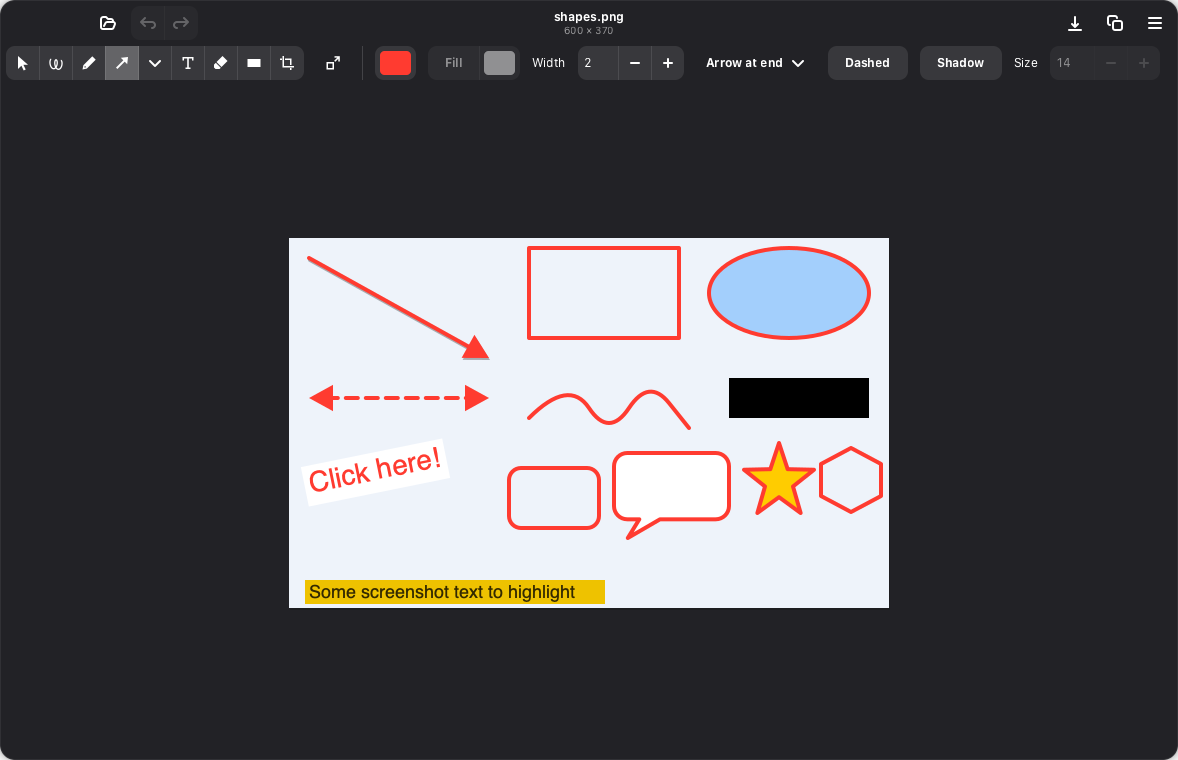
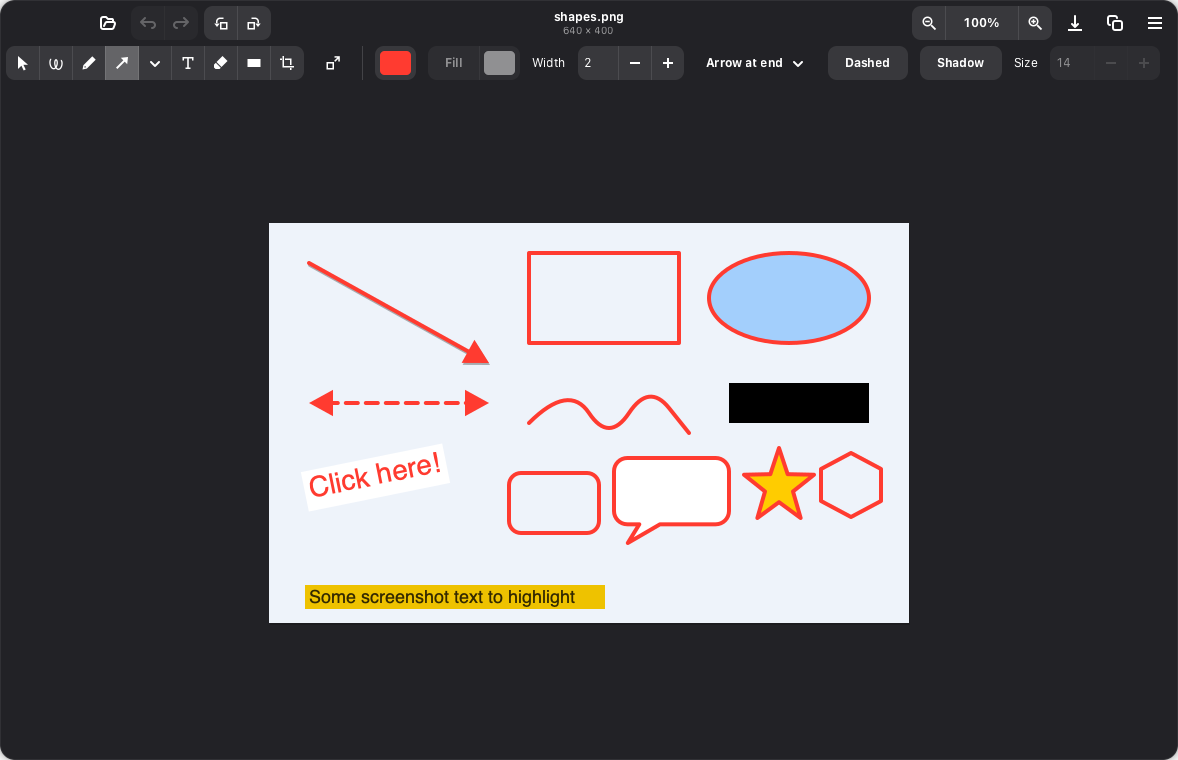
README: add rotate and zoom, refresh screenshot

diff --git a/README.md b/README.md
@@ -23,6 +23,13 @@ Built with Rust, GTK 4 and libadwaita.
 - **Editing:** move, resize and duplicate annotations, bring to front or
   send to back, and undo/redo.
 - **Crop:** stays adjustable until you save.
+- **Rotate:** turn the image left or right without losing quality. Your
+  annotations turn with it, just like in Preview: arrows keep pointing at
+  the same thing, and a speech bubble's tail or a star's points rotate along
+  with the picture.
+- **Zoom:** zoom buttons and the current level in the header bar. Click the
+  level to switch between actual size and fit to window. Ctrl+scroll and
+  touchpad pinch zoom around the pointer.
 - **Adjust Size:** Fit into presets, pixels, per cent, inches, cm, mm or
   points, plus resolution, scale proportionally and resample. The resolution
   is kept in PNG and JPEG metadata.
@@ -105,10 +112,13 @@ flatpak-builder --user --install --force-clean build-flatpak io.github.mozartdin
 | Delete, arrow keys | Delete or nudge the selection (Shift: 10 px) |
 | Ctrl+Z, Ctrl+Shift+Z | Undo, redo |
 | Ctrl+K | Crop to the selection |
+| Ctrl+L, Ctrl+R | Rotate left, rotate right |
 | Ctrl+D, Ctrl+Shift+F, Ctrl+Shift+B | Duplicate, bring to front, send to back |
 | Ctrl+C, Ctrl+V | Copy the annotated image, new image from the clipboard |
 | Ctrl+S, Ctrl+Shift+S | Save, save as |
-| Ctrl+scroll, Ctrl+0, Ctrl+1 | Zoom, fit to window, actual size |
+| Ctrl+scroll, pinch | Zoom around the pointer |
+| Ctrl+plus, Ctrl+minus | Zoom in, zoom out |
+| Ctrl+0, Ctrl+1 | Fit to window, actual size |
 
 ## Development
 
